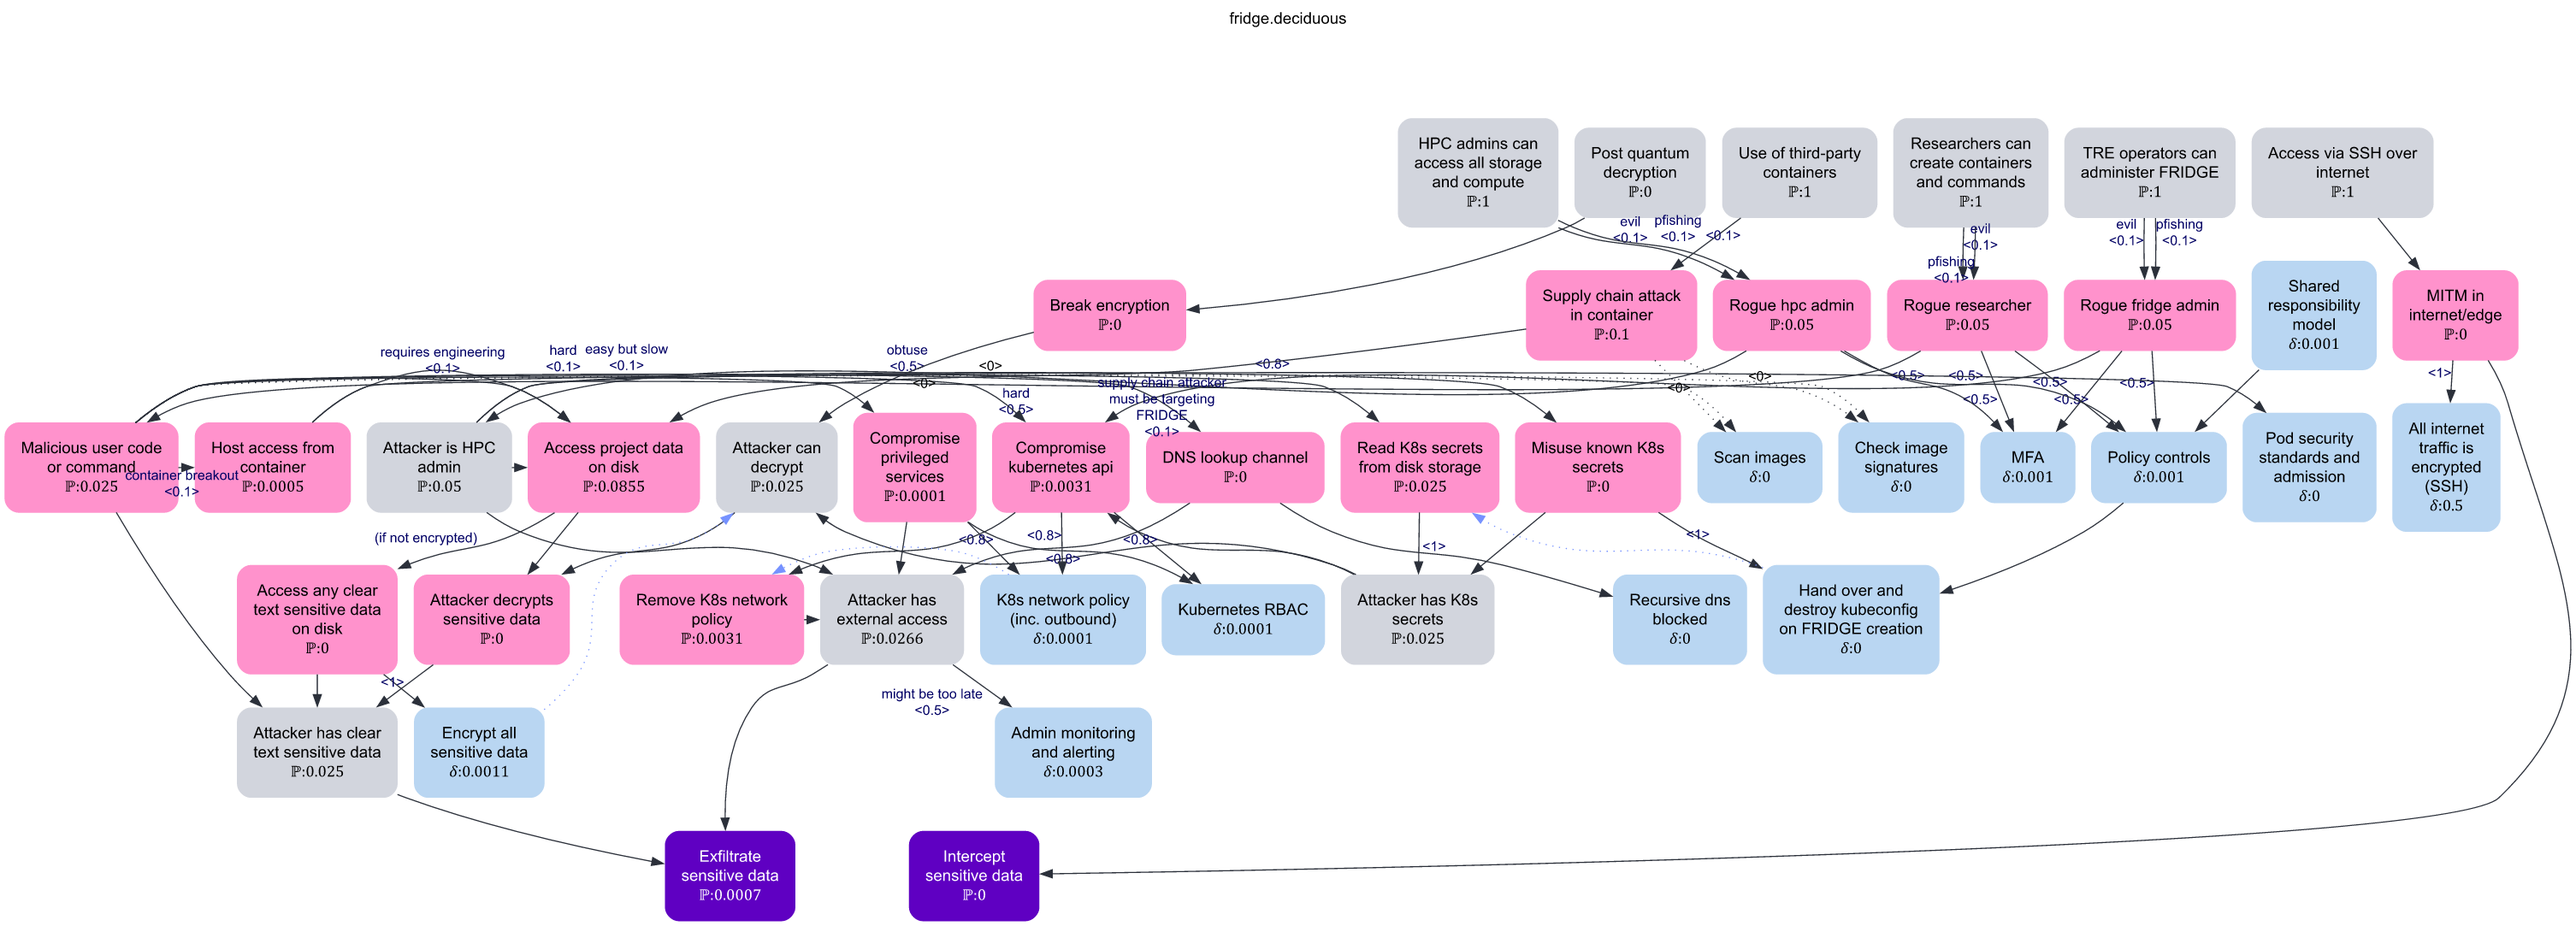
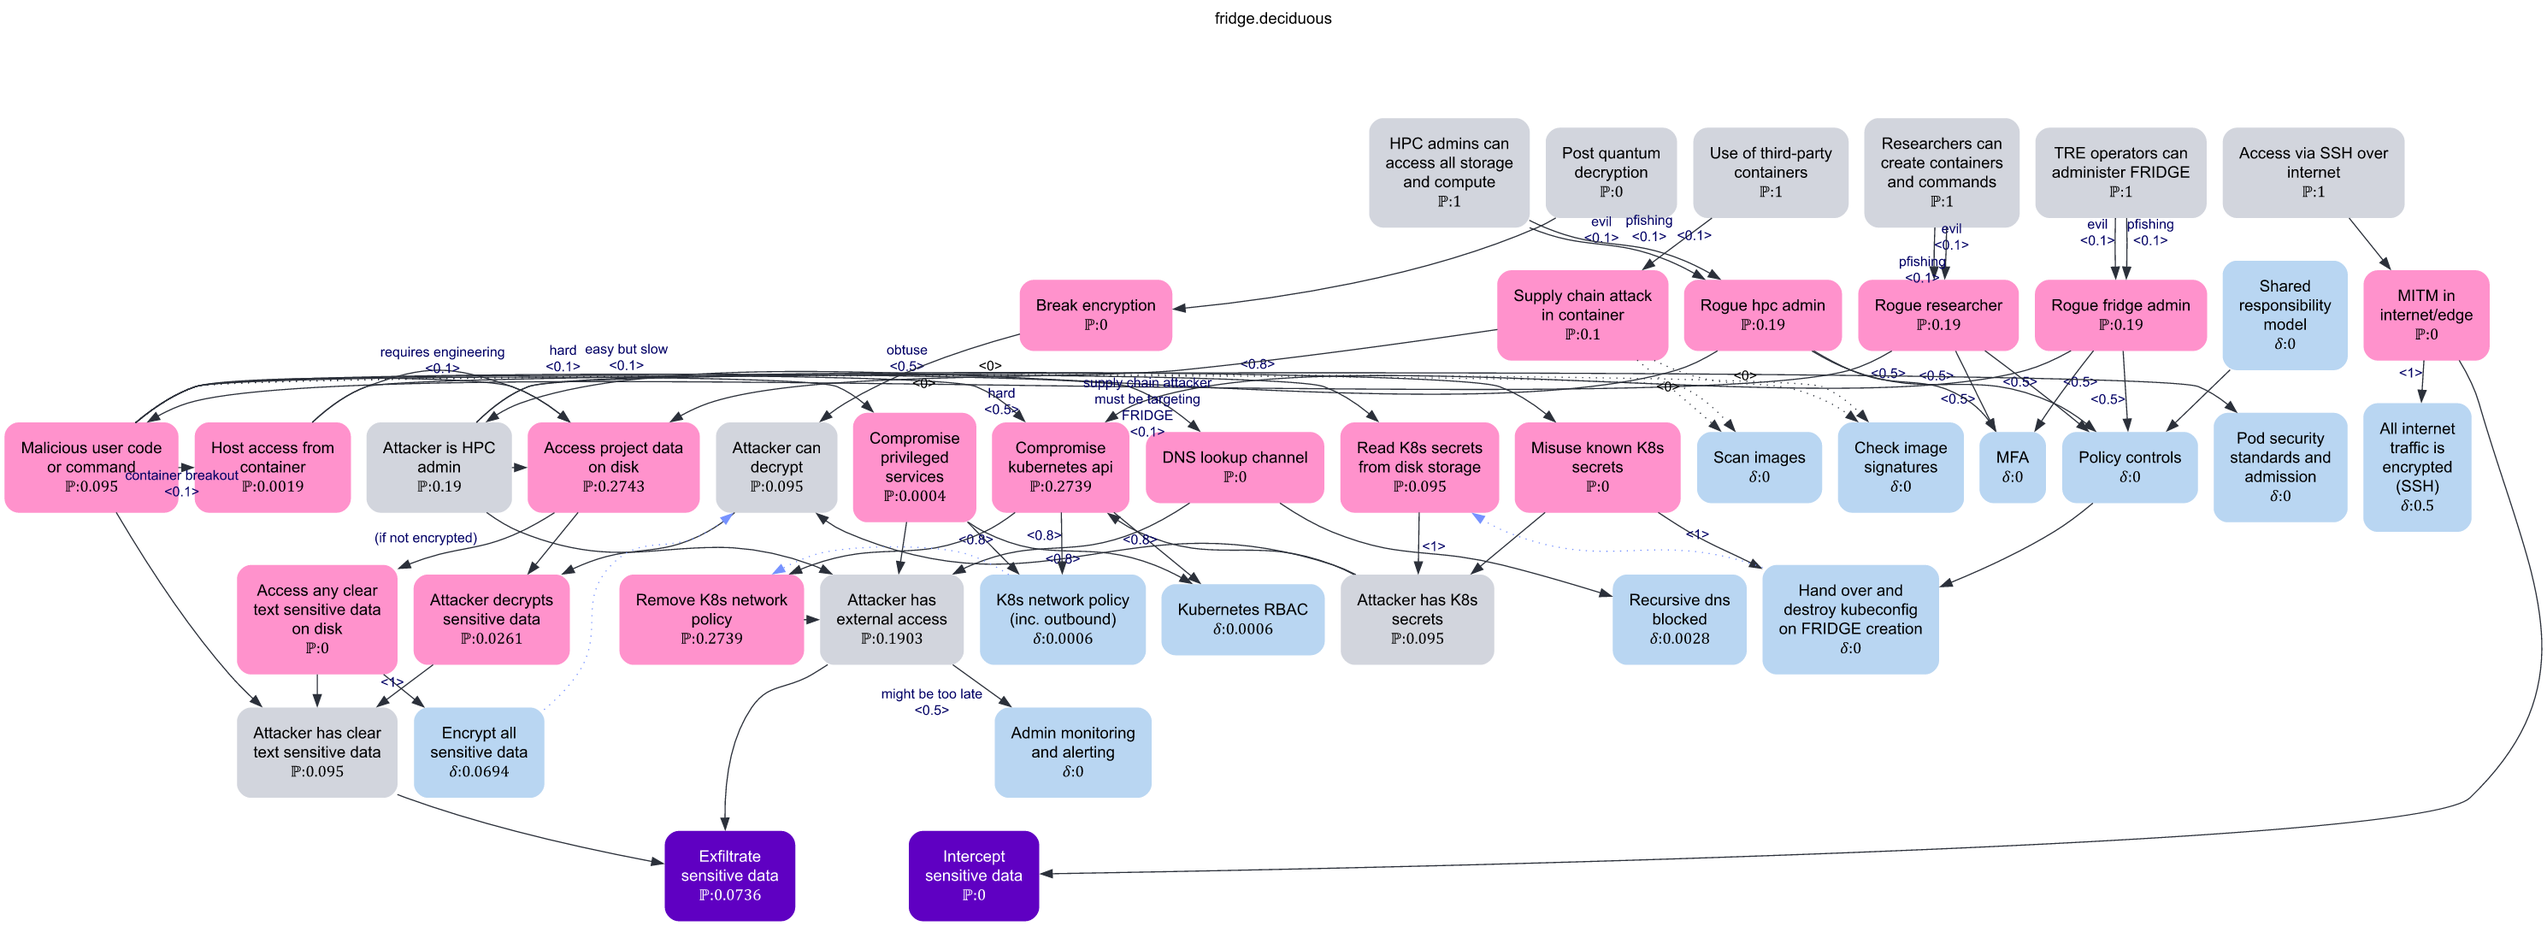
updated with latest risk calc model

diff --git a/threats/README.md b/threats/README.md
@@ -6,7 +6,7 @@ The primary reason for threat modeling FRIDGE is to understand how risks can be 
 
 ### Attack Tree Modeling
 
-To understand the attacks possible, the method used is to model an "attack tree" - the combinatorial means by which an attacker might try to achieve their goals. The tool used is [Deciduous](https://kellyshortridge.com/blog/posts/deciduous-attack-tree-app/), with modifications developed at UCL to allow calculation of the risks associated with `attacks` and affected by `mitigations`.
+To understand the attacks possible, the method used is to model an "attack tree" - the combinatorial means by which an attacker might try to achieve their goals. The tool used is [Deciduous](https://kellyshortridge.com/blog/posts/deciduous-attack-tree-app/), with modifications [developed at UCL](https://github.com/gsvarovsky/deciduous) to allow calculation of the risks associated with `attacks` and affected by `mitigations`.
 
 The attack tree models the attacker goals of exfiltrating or intercepting sensitive data:
 
@@ -14,7 +14,7 @@ The attack tree models the attacker goals of exfiltrating or intercepting sensit
 
 - The source code for this generated image is [fridge.deciduous.yaml](./fridge.deciduous.yaml).
 - Risk effects generally assume a motivated attacker, the risk of an attack reflecting its practical difficulty.
-- The risk probability shown in the model assumes a continuous 0..1 scale. Due to [limitations](#limitations) of the tool, these values are no more than prompts for discussion at this stage.
+- The risk probability shown in the model assumes a continuous 0..1 scale. Due to [limitations](https://github.com/gsvarovsky/deciduous/issues) of the tool, these values are primarily prompts for discussion.
 - Discussions were conducted at two workshops with the FRIDGE team.
 
 ## Findings
@@ -28,9 +28,3 @@ These findings represent highlights from the attack tree modeling discussions.
    - Apply TRE-grade policy, procedure and technical controls to HPC administration
 2. Generally, malware in containers has limited effect due to network policies and RBAC - even if the malware is insider-created, collusion is required with a local administrator to exploit an egress channel. This also limits the need to scan images and/or check image signatures.
    - Container breakout generally has the same profile, but may allow an attacker to exploit other workloads on the HPC facility, including other instances of FRIDGE, for an egress channel, without the need to collude with an administrator.
-
-## Limitations
-
-Tool limitations (enhancements):
-- Use of `required` (AND) generates wrong likelihoods if the inputs share provenance. E.g. attacker is admin [low] -> attacker decrypts with key from file AND attacker is admin [low] -> attacker accesses encrypted files, result: low * low instead of just low.
-- Use of `sufficient` and `required` is sometimes inadequate to express intended combinations.
